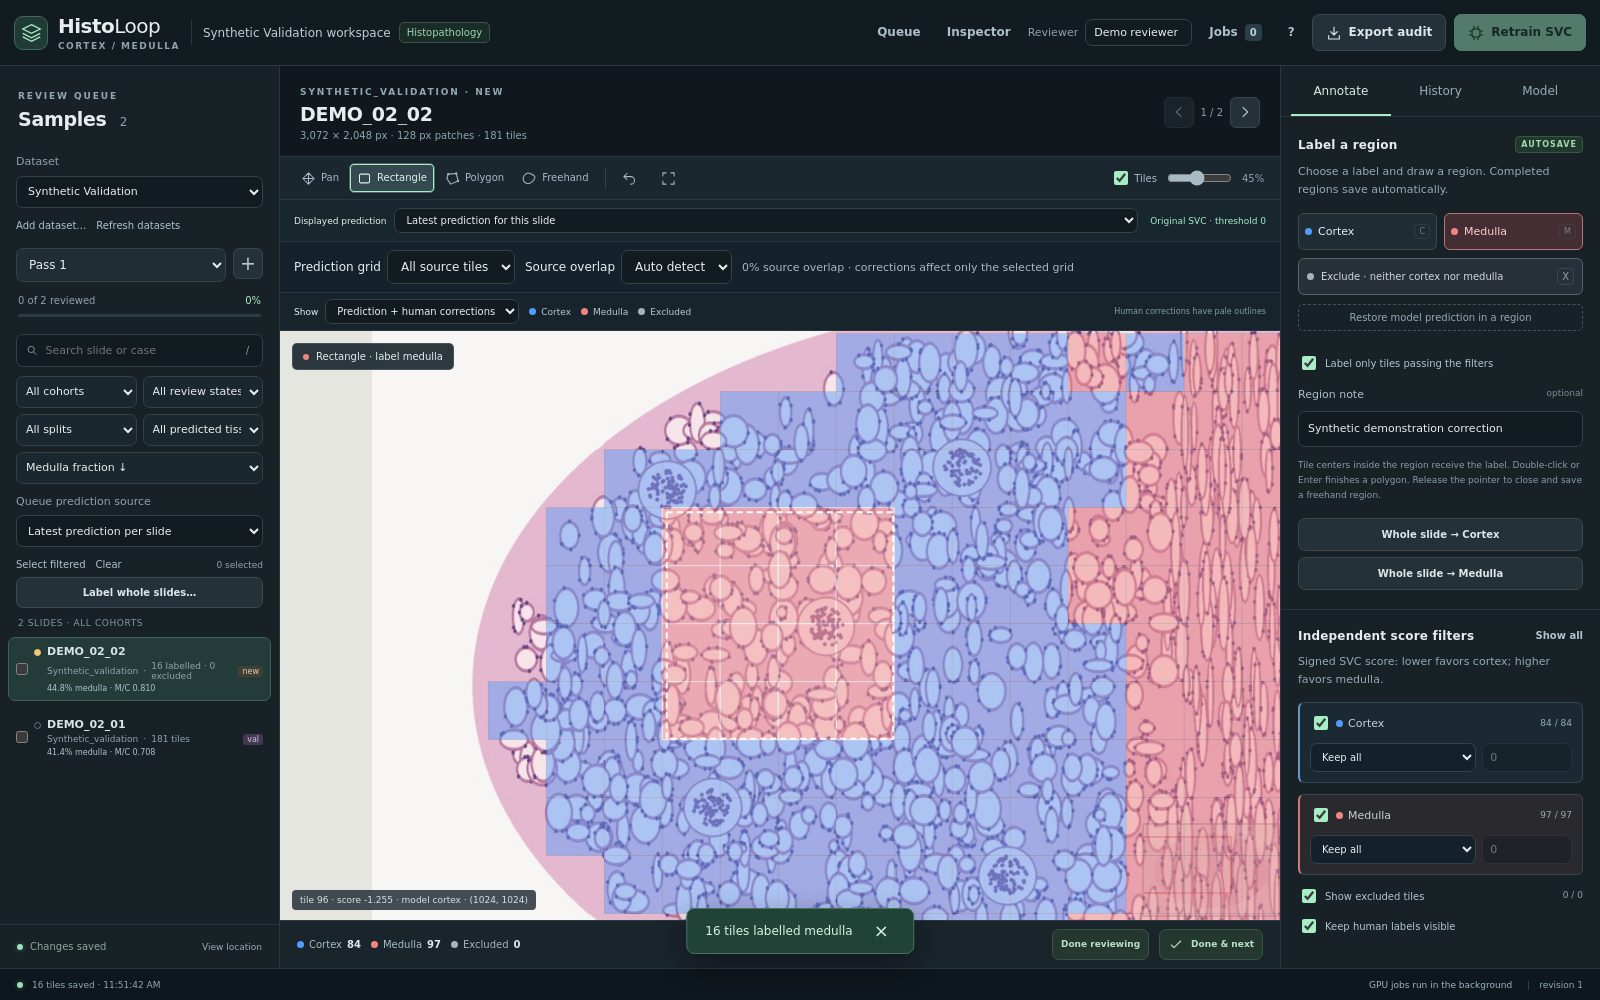
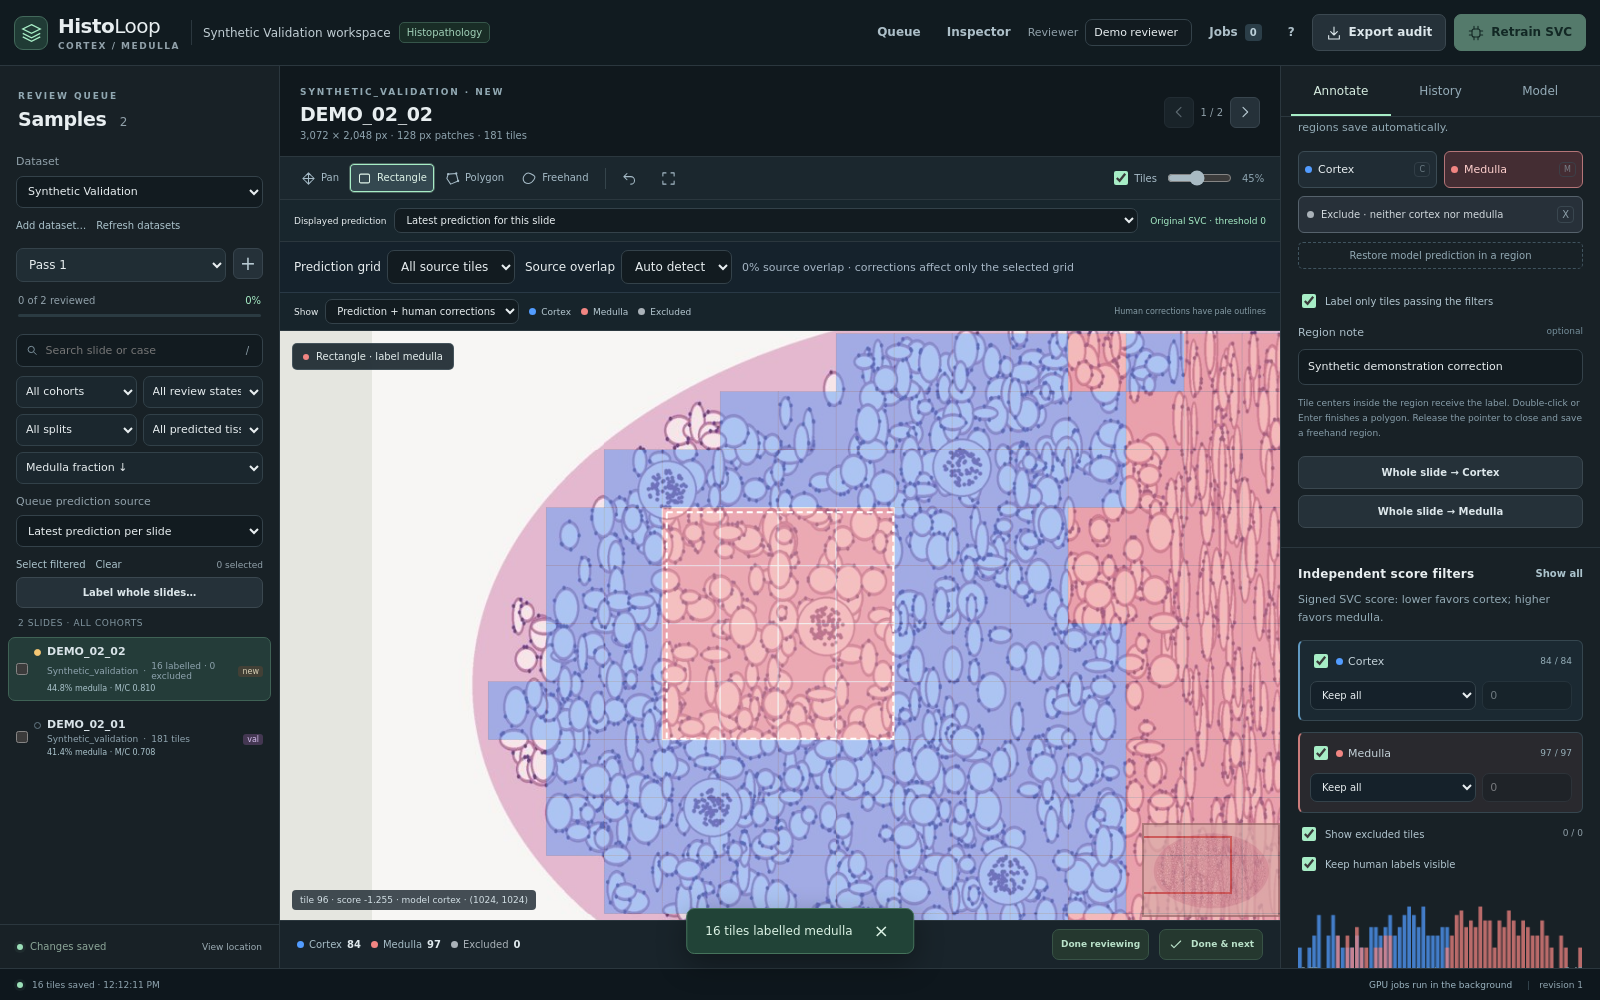
Record verified Docker deployment and score histogram capture [skip ci]

diff --git a/SVC_GPU/human_loop/scripts/capture_screenshots.py b/SVC_GPU/human_loop/scripts/capture_screenshots.py
@@ -67,6 +67,9 @@ def main():
                 assert page.locator("#trainButton").is_disabled()
                 initial_seconds = round(time.monotonic()-started,3)
                 page.screenshot(path=str(output/"main-interface.png"))
+                page.locator("#histogram").scroll_into_view_if_needed()
+                page.screenshot(path=str(output/"score-distribution.png"))
+                page.locator('[data-label="0"]').scroll_into_view_if_needed()
                 page.locator("#datasetSelect").select_option("validation")
                 page.wait_for_function("S.dataset==='validation' && S.detail?.dataset_id==='validation' && !S.loading")
                 page.locator("#splitSelect").select_option("new")

diff --git a/SVC_GPU/human_loop/docs/validation.md b/SVC_GPU/human_loop/docs/validation.md
@@ -9,10 +9,10 @@ allocation. Production annotations and source research data were not modified.
 | Fresh native environment | Hashed Python 3.10 CPU dependencies installed successfully |
 | Native startup and restart | Authenticated bootstrap, four demo slides, JPEG tiles, binary overlays, annotation writes and restart persistence passed |
 | Actual browser workflows | Branding, dataset/split selection, sample navigation, WSI loading, overlays, rectangle autosave, history, reload persistence and responsive layouts passed; no page errors or failed requests |
-| Screenshot generation | Five actual 1600 × 1000 captures using synthetic data |
+| Screenshot generation | Six actual 1600 × 1000 captures using synthetic data, including the score histogram |
 | Apptainer | Final clean-checkout SIF built successfully; authenticated startup, read-only data bind, JPEGs, binary overlays, annotation save, graceful shutdown and restart persistence passed |
 | Docker Compose and launch scripts | Compose configuration, Bash syntax and JavaScript syntax validated |
-| Docker build/run | **Not validated**: Docker unavailable; Podman build failed at base extraction because the account lacks subordinate UID/GID mappings |
+| Docker build/run | **Passed on GitHub Actions**: image built, generated demo data loaded, authenticated API/JPEG/overlay checks passed, annotations persisted after container restart |
 | GPU execution | **Not rerun** in this CPU allocation; existing worker tests simulate compute and containers disable GPU jobs |
 | Singularity executable | Launcher supports it; runtime validation used Apptainer 1.5.3 |
 
@@ -30,6 +30,10 @@ build command.
 The GitHub workflow `.github/workflows/histoloop.yaml` builds the Dockerfile,
 generates synthetic data inside the image, checks authenticated APIs and tiles,
 saves corrections to a host mount, and verifies persistence after restart.
+The [successful Docker run](https://github.com/UFerminJamie/Cortical-and-Medullary-Segmentation/actions/runs/38275261000)
+validated commit `22d02d9`. Local Docker is unavailable on this node; its Podman
+alternative could not extract the base image because subordinate UID/GID mappings
+are not configured. Docker success above refers to the executed GitHub runner.
 
 Existing navigation/cache regressions cover request cancellation, ETags, byte
 bounds, worker fallback, selected-grid correction scope, unchanged prediction

diff --git a/SVC_GPU/human_loop/README.md b/SVC_GPU/human_loop/README.md
@@ -43,6 +43,8 @@ Actual application captures at 1600 × 1000 using **synthetic tissue illustratio
 
 [Correction history](docs/screenshots/annotation-history.png)
 
+[Signed score distribution](docs/screenshots/score-distribution.png)
+
 ## Repository structure
 
 ```text
